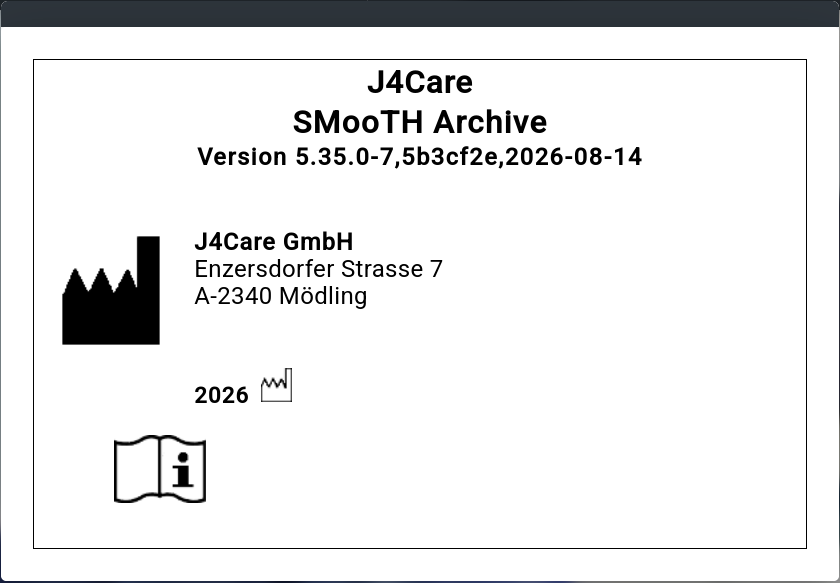
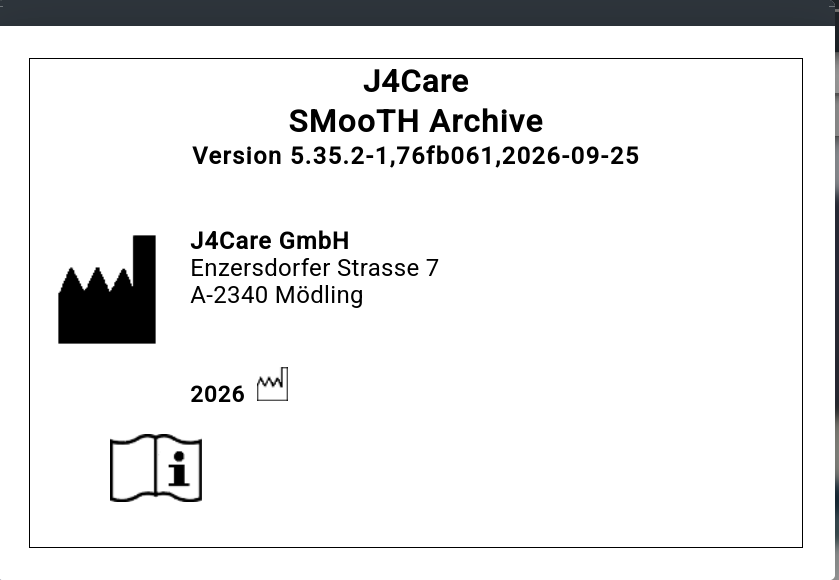
release 5.35.2-1

diff --git a/docs/conf.py b/docs/conf.py
@@ -21,8 +21,8 @@ import shlex
 project = u'Smooth Archive - DICOM Conformance Statement'
 copyright = u'2026, J4Care GmbH'
 author = u'J4Care GMbH'
-version = u'5.35.0'
-release = u'5.35.0-7'
+version = u'5.35.2'
+release = u'5.35.2-1'
 
 # If extensions (or modules to document with autodoc) are in another directory,
 # add these directories to sys.path here. If the directory is relative to the

diff --git a/docs/iso-preamble.rst b/docs/iso-preamble.rst
@@ -61,6 +61,11 @@ Revision Record for Document AEN-00039-0516.10
      - Date
      - Author
      - Reviewer
+   * - 93
+     - `Release Notes 5.35.2 <https://docs.j4care.com/archive/releases/pro-release-5-35-2>`_
+     - **25.09.2026**
+     - P. Kalina
+     - J.Friedrichkeit
    * - 92
      - `Release Notes 5.35.0 <https://docs.j4care.com/archive/releases/pro-release-5-35-0>`_
      - **14.08.2026**
